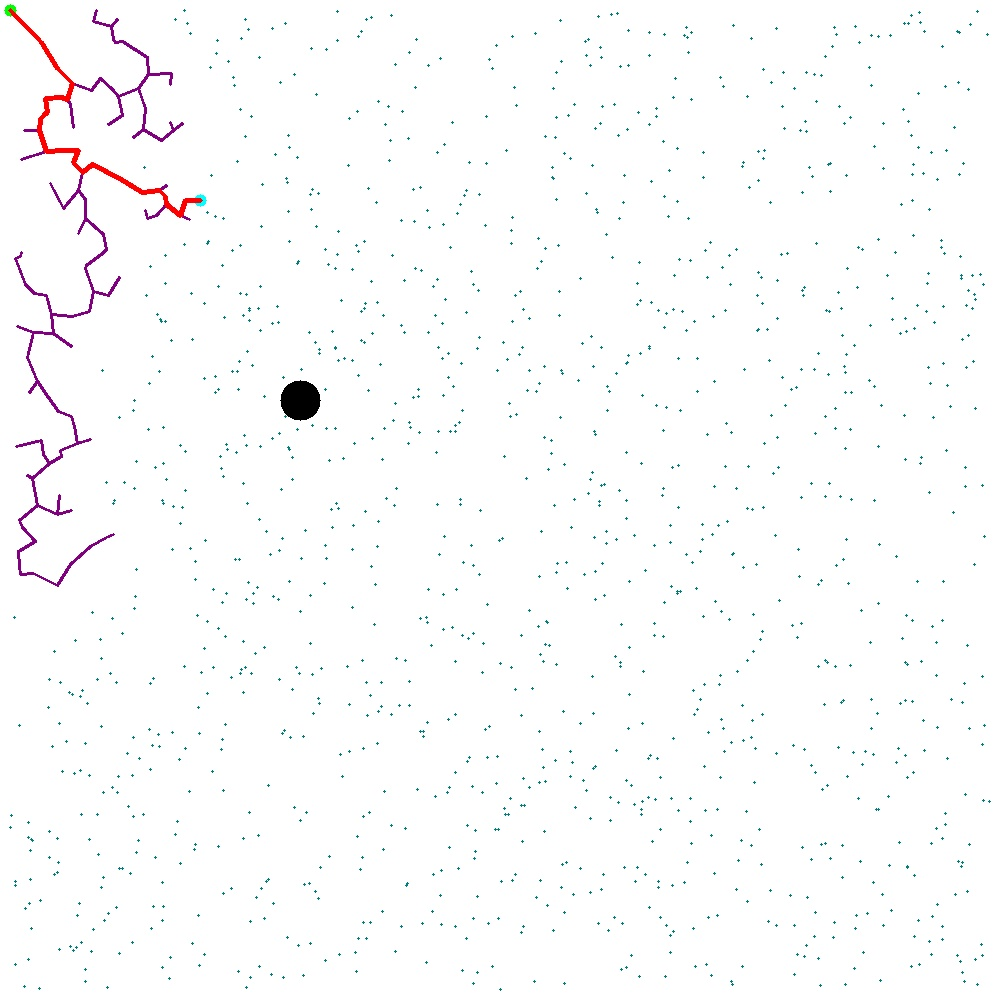
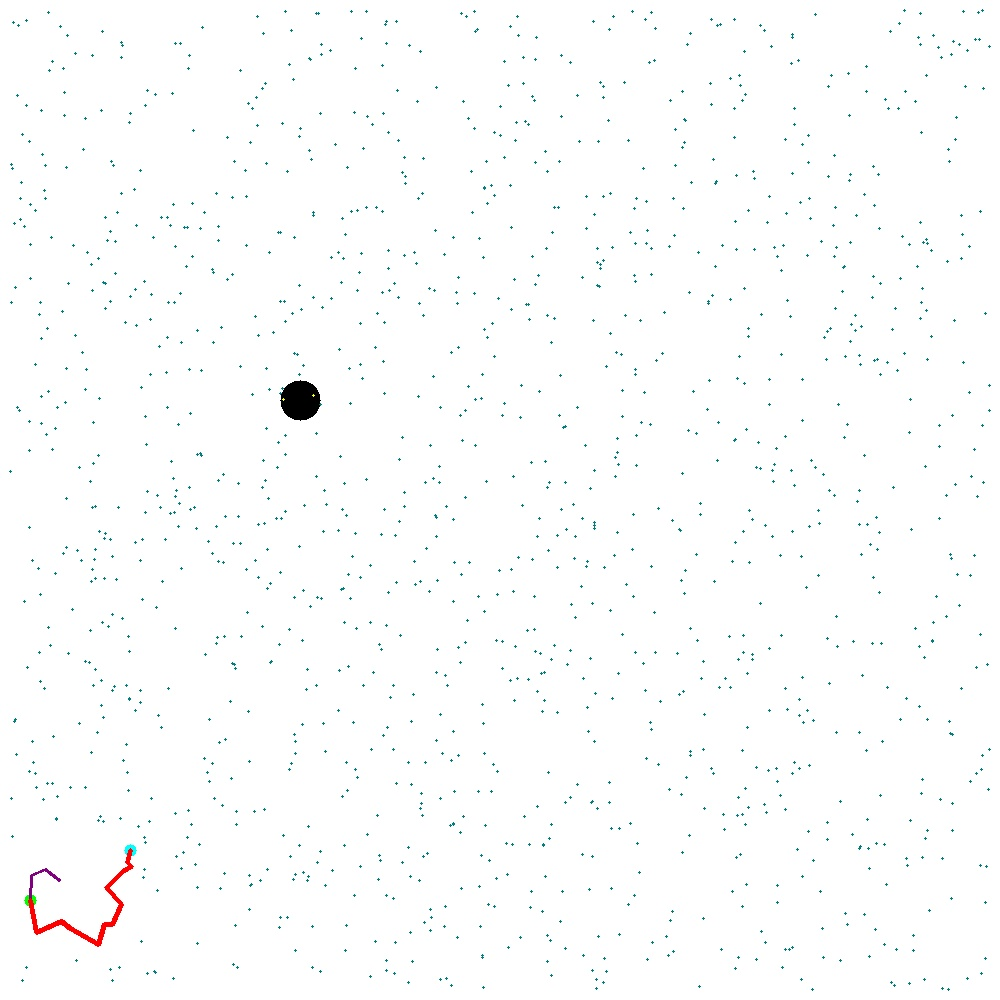
Unstable, working on states so we can finish final implementation

diff --git a/CPMR3-main/ros2_ws/src/cpmr_ch8/cpmr_ch8/fsm.py b/CPMR3-main/ros2_ws/src/cpmr_ch8/cpmr_ch8/fsm.py
@@ -76,12 +76,11 @@ def euler_from_quaternion(quaternion):
 class FSM_STATES(Enum):
     AT_START = 'AT STart',
     FIND_PATH = 'Finding Path',
-    HEADING_TO_TASK = 'Heading to Task',
-    # need to add a task state(s)
-    #==============================================
-    PERFORMING_TASK = 'Cutting the grass',
-    #===============================================
-    RETURNING_FROM_TASK = 'Returning from Task',
+    HEADING_TO_TASK = 'Heading To Task Enterance ',
+    HEADING_TO_RADIO_SITE = 'Heading To Radio Active site ',
+    PERFORMING_TASK = 'Scanning Area',
+    RETURNING_FROM_RADIO_SITE= 'Returning From Radio Active site ',    
+    RETURNING_FROM_TASK = 'Heading Home',
     TASK_DONE = 'Task Done'
 
 class FSM(Node):
@@ -271,7 +270,7 @@ class FSM(Node):
         return listOfVertix
 
     #=======================================================================================================================================
-    def getPathTo(self,start_x = 10, start_y = 10, finish_x = 200, finish_y = 200):
+    def getPathTo(self,start_x = 30, start_y = 700, finish_x = 130, finish_y = 850):
         
         # get the list of points
         listOfVertix = self.buildMap(data=self.read_json_file(self.fileName))
@@ -284,15 +283,16 @@ class FSM(Node):
         # starting index will be the first index of the list (its always random since the list is always randomly generated)
         startVertex = self.point(start_x, start_y)
         
-        # INSERT A POINT AT A RANDOM SPOT IN THE LIST (this will be replaced by the robot odometry position in gazebo)
-        random_index = random.randint(0, len(listOfVertix))
-
         finishPoint = self.point(finish_x, finish_y)
         finishPoint.color=(255, 255, 0)
-        
+        print(f"{startVertex.x,startVertex.y}")
+        print(f"{finishPoint.x,finishPoint.y}")
+
         cv2.circle(self.world, (startVertex.x,startVertex.y), 6, (0,255,0), thickness=-1)
         cv2.circle(self.world, (finishPoint.x,finishPoint.y), 6, (255,255,0), thickness=-1)
 
+        # INSERT A POINT AT A RANDOM SPOT IN THE LIST (this will be replaced by the robot odometry position in gazebo)
+        random_index = random.randint(0, len(listOfVertix))
         listOfVertix.insert(random_index, finishPoint)
         exploredVertexList.append(startVertex)
 
@@ -322,7 +322,9 @@ class FSM(Node):
             
             print('\n')  
         while(newNode.prev != None):
-            rrt.append([newNode.x/100.0,newNode.y/100.0])
+            pointX = round(newNode.x/100.0,2)
+            pointY = round(10 - newNode.y/100.0,2)
+            rrt.append([pointX,pointY])
             print(f"Location: {newNode.x} , {newNode.y}")
             self.drawLine(newNode, newNode.prev,(0, 0, 255), 4) 
             newNode = newNode.prev
@@ -368,7 +370,6 @@ class FSM(Node):
         self.get_logger().info(f'{self.get_name()} at goal pose')
         return True
         
-    
     def _do_state_at_start(self):
         self.get_logger().info(f'{self.get_name()} in start state')
         # getting the current time
@@ -376,28 +377,40 @@ class FSM(Node):
         now = self.get_clock().now().nanoseconds * 1e-9
         if now > (self._start_time + 2):
             # once the 2 seconds have passed, lets head to our task
-            self._cur_state = FSM_STATES.FIND_PATH
+            self._cur_state = FSM_STATES.HEADING_TO_TASK
         # self.get_logger().info(f'FINISHED START STATE in start state')
-    import time
-    def _do_state_find_path(self):
-        self.get_logger().info(f'{self.get_name()} in path finding state')
-        import time
-        # readImageTemp.process_json_data(data)
-        self.pathList = self.getPathTo()
-        # time.sleep(10)
-    
-        self.currentGoal = [self.pathList[0][0],self.pathList[0][1],(math.pi/2)]
-        self._cur_state = FSM_STATES.HEADING_TO_TASK
-
 
     def _do_state_heading_to_task(self):
         self.get_logger().info(f'{self.get_name()} heading to task {self._cur_x} {self._cur_y} {self._cur_theta}')
         if self._drive_to_goal(3, 3, math.pi/2):
             self._cur_state = FSM_STATES.PERFORMING_TASK
 
+    def _do_state_find_path(self):
+        self.get_logger().info(f'{self.get_name()} in path finding state')
+        self.get_logger().info(f'{self.get_name()} Current location is {self._cur_x, self._cur_y} ')
+
+        # readImageTemp.process_json_data(data)
+        # You need to convert to pixels when sending path information
+        self.pathList = self.getPathTo(
+            start_x = self._cur_x * 100,
+            start_y = ( 10 - self._cur_y ) * 100,
+            finish_x = 5 * 100, 
+            finish_y = (10-5) * 100 ,
+        )
+    
+        # Open the file in write mode ('w')
+        with open("MapPathList.txt", 'w') as file:
+            # Iterate through the list and write each element to a new line
+            for item in self.pathList:
+                file.write(f"{item}\n")
+
+        self.currentGoal = [self.pathList[0][0],self.pathList[0][1],(math.pi/2)]
+        self._cur_state = FSM_STATES.HEADING_TO_RADIO_SITE
+
     #=======================================================================================================================
     # HERE WE ARE HEADING TO GOAL (I.E., HEADING TO THE STARTING POSITION WHERE WE WILL BEGIN TO CUT THE GRASS)
-    def _do_state_performing_task(self):
+    def _do_state_heading_radio_Site(self):
+        print(self.currentGoal)
         isAtGoal = self._drive_to_goal(*self.currentGoal)
         self.get_logger().info(f'{self.currentGoal} PERFORMING TASK ')
         x=0
@@ -405,28 +418,29 @@ class FSM(Node):
         import time
         
         if isAtGoal:
-            curTuple = (self.currentGoal[0],self.currentGoal[1])
+            curPoint = [self.currentGoal[0],self.currentGoal[1]]
             index = -1 
             try:
                 # Get the index of the target tuple
-                index = self.pathList.index(curTuple)
+                index = self.pathList.index(curPoint)
                 # Print the index
                 print(f"Current index: {index}")
             except ValueError:
-                print(f"{curTuple} not found in the list.")
-
+                print(f"{curPoint} not found in the list.")
             if index == (len(self.pathList)-1): # Is at Goal 
-                self.get_logger().info(f'{self.get_name()} completed Scan of radioactive area')
+                self.get_logger().info(f'{self.get_name()} Have reached the Radioactive site')
                 self._cur_state = FSM_STATES.RETURNING_FROM_TASK
             else: 
                 self._cur_state = FSM_STATES.PERFORMING_TASK
                 #  self.get_logger().info(f'{self.get_name()} completed Scan of radioactive area')
-                newGoal = self.pathList[index+1]
-                newGoal = newGoal.append(self._cur_theta)
-                print(self._cur_theta)
-                print(newGoal)
+                print(self.pathList)
                 time.sleep(5)
-                self.currentGoal =  newGoal
+                newCurX = self.pathList[index+1][0]
+                newCurY = self.pathList[index+1][1]
+                newTheta = self._cur_theta
+                newGoal = [newCurX,newCurY,newTheta]
+                self.currentGoal =  [newCurX,newCurY,newTheta]
+                print(f"____RESET NEW GOAL TO {newGoal}____")
         
         
        	 	 
@@ -442,20 +456,41 @@ class FSM(Node):
     # THIS IS THE STATE WHERE WE RECOGNIZE THAT A SPECIFIC TASK IS DONE
     def _do_state_task_done(self):
         self.get_logger().info(f'{self.get_name()} task done')
-# The software craftsmen
+
+    # AT_START = 'AT STart',
+    # FIND_PATH = 'Finding Path',
+    # HEADING_TO_TASK = 'Heading To Task Enterance ',
+    # HEADING_TO_RADIO_SITE = 'Heading To Radio Active site ',
+    
+    # PERFORMING_TASK = 'Scanning Area',-------
+    # RETURNING_FROM_RADIO_SITE= 'Returning From Radio Active site ',    
+    # RETURNING_FROM_TASK = 'Heading Home',
+    # TASK_DONE = 'Task Done'
     def _state_machine(self):
         if self._cur_state == FSM_STATES.AT_START:
             self._do_state_at_start()
-        if self._cur_state == FSM_STATES.FIND_PATH:
-            self._do_state_find_path()
+        
         elif self._cur_state == FSM_STATES.HEADING_TO_TASK:
             self._do_state_heading_to_task()
+
+        elif self._cur_state == FSM_STATES.FIND_PATH:
+            self._do_state_find_path()
+
+        elif self._cur_state == FSM_STATES.HEADING_TO_RADIO_SITE:
+            self._do_state_heading_radio_Site()
+
         elif self._cur_state == FSM_STATES.PERFORMING_TASK:
             self._do_state_performing_task()
+        
+        elif self._cur_state == FSM_STATES.RETURNING_FROM_RADIO_SITE:
+            self._do_state_heading_to_task()    
+        
         elif self._cur_state == FSM_STATES.RETURNING_FROM_TASK:
             self._do_state_returning_from_task()
+        
         elif self._cur_state == FSM_STATES.TASK_DONE:
             self._do_state_task_done()
+        
         else:
             self.get_logger().info(f'{self.get_name()} bad state {self._cur_state}')
 

diff --git a/CPMR3-main/ros2_ws/src/cpmr_ch8/cpmr_ch8/tempImageRead.py b/CPMR3-main/ros2_ws/src/cpmr_ch8/cpmr_ch8/tempImageRead.py
@@ -1,14 +1,27 @@
-# Define a list of tuples
-my_list = [(1, 'apple'), (2, 'banana'), (3, 'orange'), (4, 'grape')]
+# # Define a list of tuples
+# my_list = [(1, 'apple'), (2, 'banana'), (3, 'orange'), (4, 'grape')]
 
-# Define the tuple you want to find
-target_tuple = (3, 'orange')
+# # Define the tuple you want to find
+# target_tuple = (3, 'orange')
 
-try:
-    # Get the index of the target tuple
-    index = my_list.index(target_tuple)
+# try:
+#     # Get the index of the target tuple
+#     index = my_list.index(target_tuple)
     
-    # Print the index
-    print(f"Index of {target_tuple}: {index}")
-except ValueError:
-    print(f"{target_tuple} not found in the list.")
+#     # Print the index
+#     print(f"Index of {target_tuple}: {index}")
+# except ValueError:
+#     print(f"{target_tuple} not found in the list.")
+points = [
+    [1.3, 1.5], [1.48, 1.45], [1.65, 1.37], [1.8, 1.53], [1.78, 1.79],
+    [2.0, 1.77], [2.13, 1.73], [2.27, 1.64], [2.37, 1.7], [2.42, 1.55],
+    [2.61, 1.57], [2.66, 1.64], [2.83, 1.68], [2.89, 1.84], [2.79, 1.94],
+    [2.96, 2.04], [3.08, 2.1], [3.15, 2.02], [3.14, 1.94], [3.18, 1.83],
+    [3.22, 1.79], [3.17, 1.64], [3.09, 1.43], [3.04, 1.24], [3.23, 1.22],
+    [3.27, 1.0], [3.24, 0.96], [3.19, 0.93], [3.06, 0.93], [3.0, 0.85],
+    [2.9, 0.64], [2.91, 0.6], [2.83, 0.39], [2.73, 0.26], [2.64, 0.19],
+    [2.6, 0.23], [2.52, 0.43], [2.57, 0.53], [2.5, 0.5]]
+
+x = points[0]
+x.append(0.3)
+print(x) 
